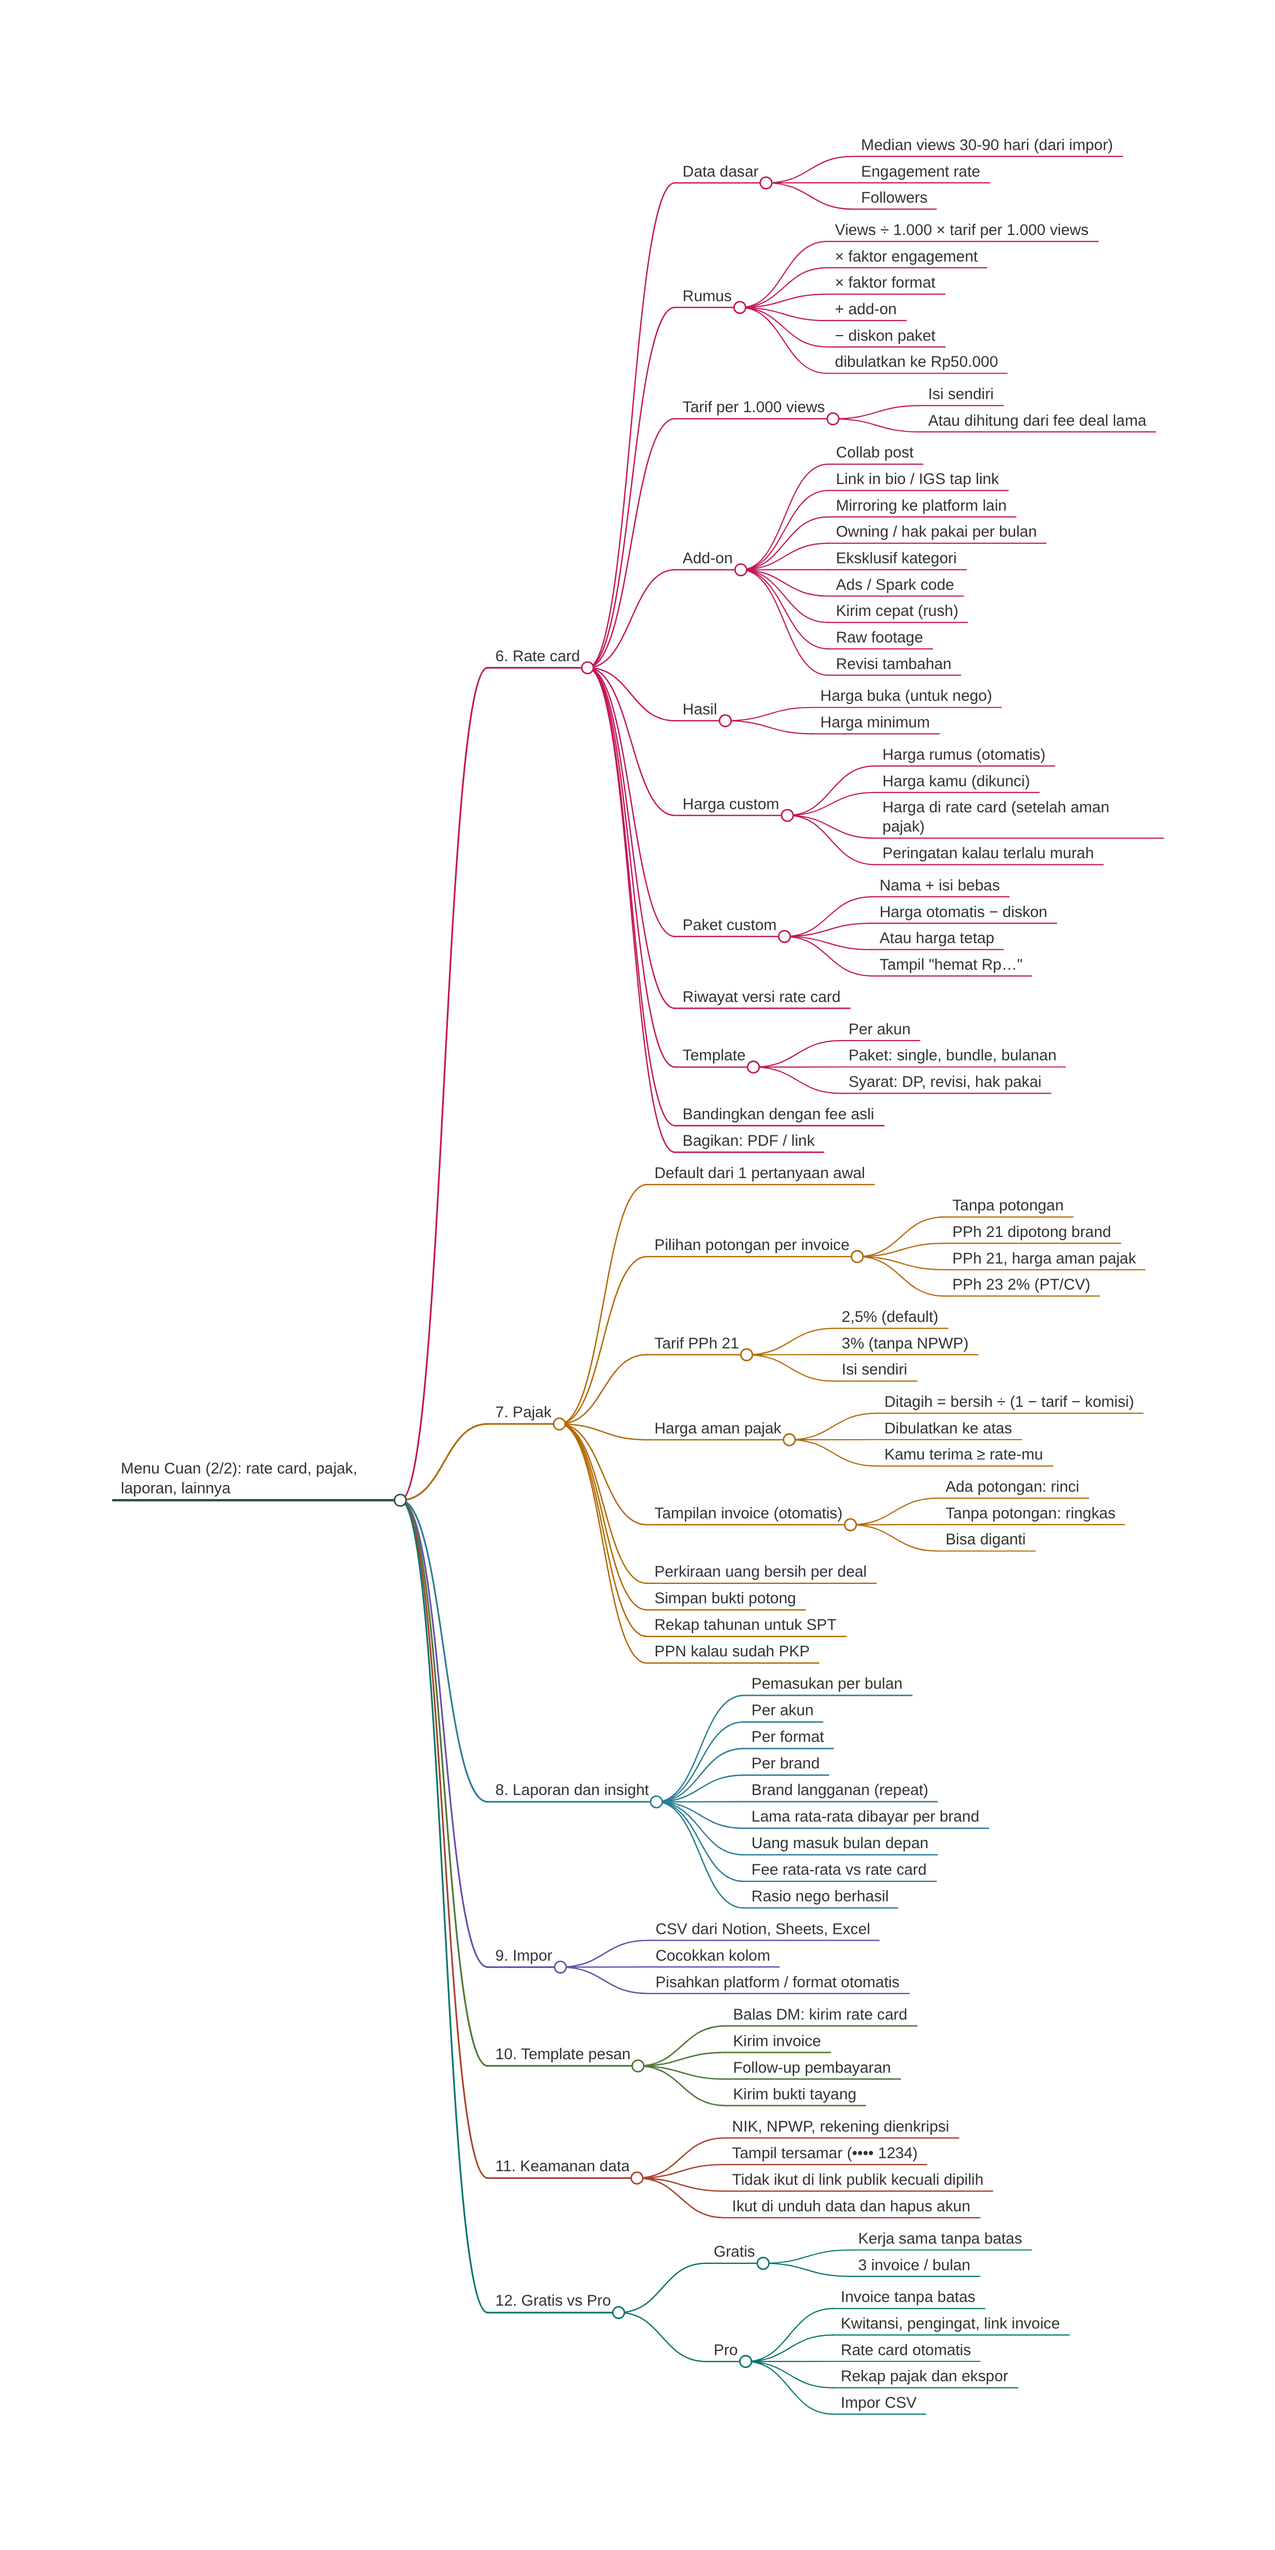
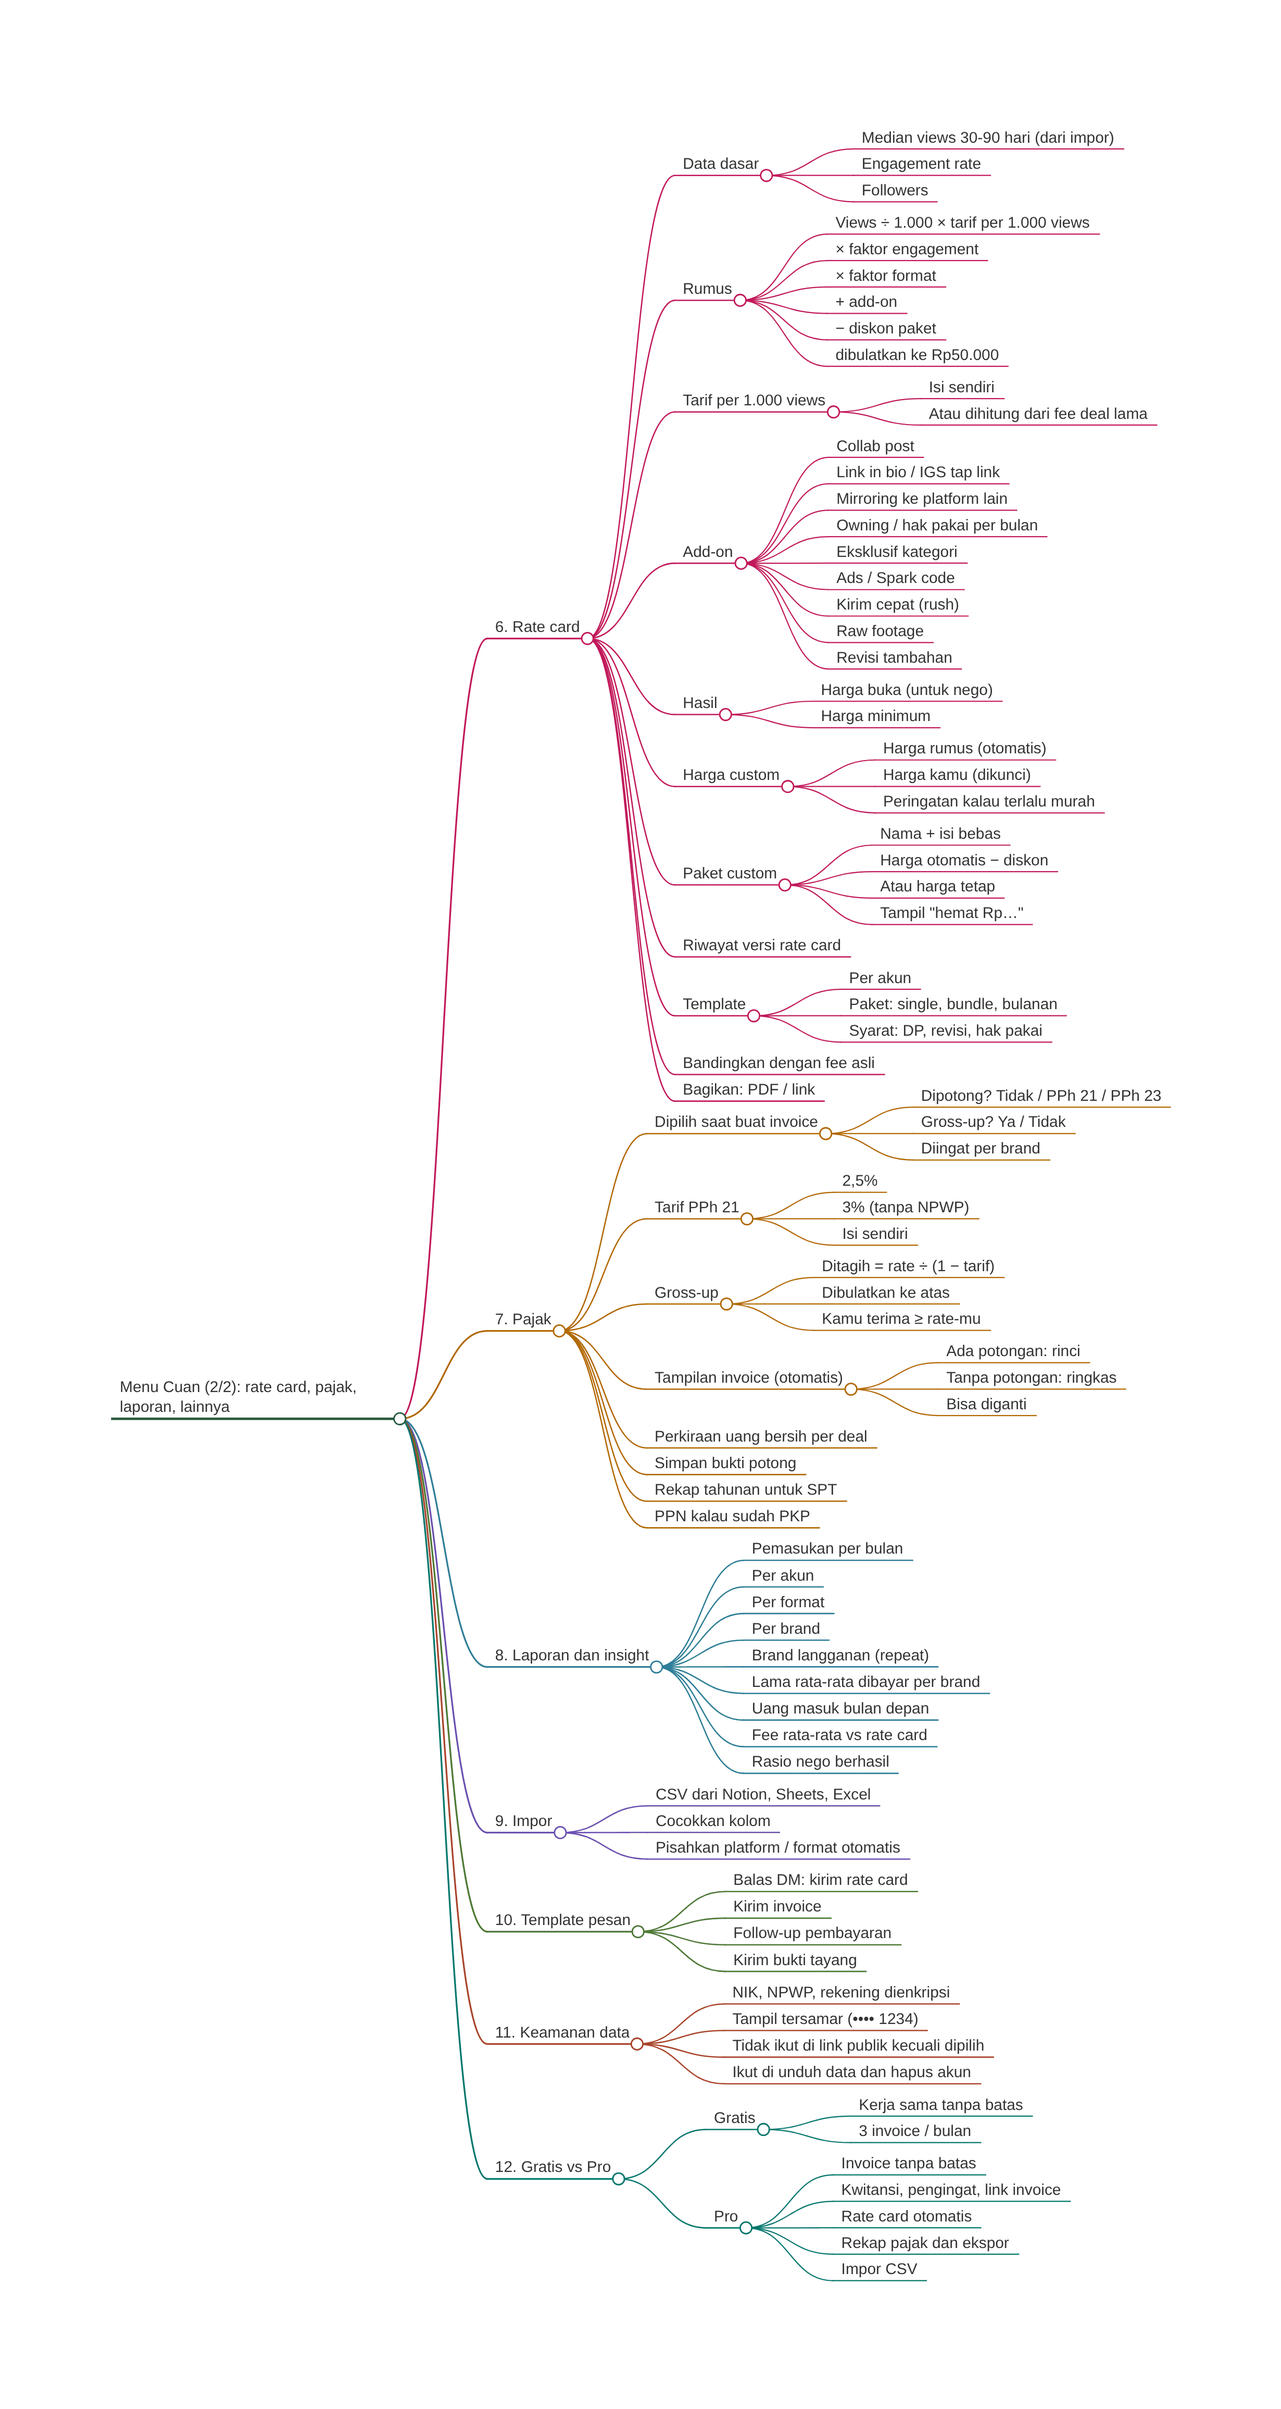
Hapus komisi manager; pajak dan gross-up dipilih per invoice
- Tidak ada lagi perantara/komisi; Bill to = siapa pun pemberi kerjaan
- Tidak ada pengaturan pajak di awal; dipotong atau tidak dan gross-up
  dipilih setiap membuat invoice, pilihan terakhir per brand diingat
- Rate card hanya harga rumus dan harga kamu, tanpa pajak

Claude-Session: https://claude.ai/code/session_01BoM2Up1Jm4HZYeCHUi7T6U

diff --git a/wireframes/index.html b/wireframes/index.html
@@ -460,23 +460,20 @@ u{text-underline-offset:2px}
   <div class="top"><span>‹ Cuan</span><span class="up">Bagikan</span></div>
   <h1>Rate card</h1>
   <div class="chips"><span class="chip on">@sarita</span><span class="chip">@sarita.review</span></div>
-  <div class="li"><div>Naikkan supaya aman pajak<div class="muted">PPh 21 · 2,5% · bulat ke atas</div></div><span class="tg on"></span></div>
   <div class="card">
    <div class="flex"><b>Reels</b><span class="muted">rumus Rp1.050.000</span></div>
    <div class="flex" style="margin-top:6px;font-size:13.5px"><span>Harga kamu 🔒</span><b>Rp1.200.000</b></div>
-   <div class="flex" style="font-size:13.5px"><span class="muted">Di rate card</span><span class="up">Rp1.231.000</span></div>
   </div>
   <div class="card">
    <div class="flex"><b>TikTok</b><span class="muted">rumus Rp980.000</span></div>
    <div class="flex" style="margin-top:6px;font-size:13.5px"><span>Harga kamu 🔒</span><b>Rp1.000.000</b></div>
-   <div class="flex" style="font-size:13.5px"><span class="muted">Di rate card</span><span class="up">Rp1.026.000</span></div>
   </div>
   <h2>Paket</h2>
-  <div class="li">Bundle Launch<span class="r">Rp2.862.000 ›</span></div>
+  <div class="li">Bundle Launch<span class="r">Rp2.790.000 ›</span></div>
   <div class="li" style="color:var(--acc);font-weight:700">+ Paket baru</div>
  </div>
 </div>
-<ul class="notes"><li>Harga rumus jadi titik awal; harga kamu yang dipakai.</li><li>Brand melihat harga yang sudah aman pajak.</li></ul>
+<ul class="notes"><li>Harga rumus jadi titik awal; harga kamu yang dipakai.</li><li>Pajak tidak diatur di sini, tapi di tiap invoice.</li></ul>
 </div>
 
 <div class="col">
@@ -495,7 +492,6 @@ u{text-underline-offset:2px}
   <div class="seg"><span class="on">Otomatis</span><span>Harga tetap</span></div>
   <div class="card">
    <div class="flex" style="font-size:13.5px"><span>Rp3.100.000 − 10%</span><b>Rp2.790.000</b></div>
-   <div class="flex" style="font-size:13.5px;margin-top:4px"><span class="muted">Di rate card</span><span class="up">Rp2.862.000</span></div>
    <div class="muted" style="margin-top:4px">Hemat Rp310.000 dibanding satuan</div>
   </div>
  </div>
@@ -504,30 +500,28 @@ u{text-underline-offset:2px}
 </div>
 
 <div class="col">
-<p class="label"><span>18</span>Invoice · potongan pajak</p>
+<p class="label"><span>18</span>Invoice · pajak</p>
 <div class="phone">
  <div class="sb"><span>9.41</span><span>▮▮▮</span></div>
  <div class="scr">
   <div class="top"><span>‹ INV/2026/11/004</span><span></span></div>
-  <h1>Potongan pajak</h1>
-  <div class="li"><span class="cb"></span>Tanpa potongan</div>
-  <div class="li"><span class="cb"></span>PPh 21 dipotong brand</div>
-  <div class="li"><span class="cb done"></span><b>PPh 21, harga aman pajak</b></div>
-  <div class="li"><span class="cb"></span>PPh 23 2% (PT/CV)</div>
-  <div class="field"><small>Rate bersih yang kamu mau</small>Rp1.500.000</div>
-  <div class="chips"><span class="chip on">Tarif 2,5% ▾</span><span class="chip on">Komisi manager 10%</span></div>
+  <h1>Pajak</h1>
+  <h2>Brand memotong pajak?</h2>
+  <div class="li"><span class="cb"></span>Tidak</div>
+  <div class="li"><span class="cb done"></span><b>PPh 21 · 2,5%</b></div>
+  <div class="li"><span class="cb"></span>PPh 21 · 3% (tanpa NPWP)</div>
+  <div class="li"><span class="cb"></span>PPh 23 · 2% (PT/CV)</div>
+  <div class="li"><div><b>Gross-up</b><div class="muted">Tetap terima rate utuh</div></div><span class="tg on"></span></div>
+  <div class="field"><small>Mau terima</small>Rp1.500.000</div>
   <div class="card" style="font-size:13.5px">
-   <div class="flex"><span>Ditagih</span><b>Rp1.715.000</b></div>
-   <div class="flex muted"><span>PPh 21</span><span>−Rp42.875</span></div>
-   <div class="flex muted"><span>Komisi manager</span><span>−Rp171.500</span></div>
-   <div class="flex" style="margin-top:4px"><b>Kamu terima</b><b class="up">Rp1.500.625</b></div>
+   <div class="flex"><span>Ditagih</span><b>Rp1.539.000</b></div>
+   <div class="flex muted"><span>PPh 21 dipotong</span><span>−Rp38.475</span></div>
+   <div class="flex" style="margin-top:4px"><b>Kamu terima</b><b class="up">Rp1.500.525</b></div>
   </div>
   <div class="seg"><span>Ringkas</span><span class="on">Rinci</span></div>
  </div>
 </div>
-<ul class="notes"><li>Dibulatkan ke atas, jadi yang diterima tidak kurang dari rate-mu.</li><li>Komisi hanya untuk hitunganmu, tidak tercetak di invoice.</li><li>Angka pajak berupa perkiraan.</li></ul>
-</div>
-
+<ul class="notes"><li>Dipilih tiap buat invoice; pilihan terakhir untuk brand yang sama sudah terisi.</li><li>Dibulatkan ke atas, jadi yang diterima tidak kurang dari rate-mu.</li><li>Angka pajak berupa perkiraan.</li></ul>
 </div>
 </section>
 

diff --git a/docs/cuan.md b/docs/cuan.md
@@ -27,17 +27,9 @@ Sheets, atau Excel, ditambah beberapa kolom yang biasanya belum ada.
 | Fee | Bruto, sebelum potongan |
 | Status bayar | Belum → Ditagih → DP → Lunas, ditambah Telat (otomatis kalau lewat jatuh tempo) |
 | Tanggal dibayar | Diisi saat ditandai Lunas |
-| **Lewat manager / agensi** | Nama perantara dan komisinya (% atau nominal), sehingga fee bersih terlihat |
 | Termin | DP sekian %, pelunasan setelah posting |
 | Bukti tayang | Link postingan + angka dari data impor |
 | Brief & kontrak | File atau link |
-
-**Deal lewat manager atau agensi.** Ada dua pola, dan creator memilih salah
-satu per deal:
-- **Brand bayar ke kamu, kamu bayar komisi ke manager.** Invoice ke brand.
-  Komisi hanya muncul di hitunganmu, tidak tercetak di invoice.
-- **Brand bayar ke agensi, agensi bayar ke kamu.** Invoice ke agensi
-  (Bill to = agensi), sebesar fee setelah komisi.
 
 ## 2. Profil penagih (diisi sekali, dipakai di semua invoice)
 
@@ -60,63 +52,57 @@ dicek.
 | Bagian | Isi |
 |---|---|
 | Kepala | Logo, nama, kontak, NPWP; nomor invoice, tanggal, jatuh tempo (NET 7/14/30), no PO kalau brand minta |
-| Bill to | Nama PT/brand, alamat, PIC, email (dari data brand) |
+| Bill to | Siapa pun yang memberi kerjaan: nama perusahaan, alamat, PIC, email (tersimpan, jadi tidak diketik ulang) |
 | Tabel | Deskripsi (dari SOW), qty, harga satuan, jumlah |
 | Hitungan | Subtotal → diskon → PPN (kalau PKP) → total tagihan → dikurangi DP yang sudah dibayar → **sisa tagihan** |
-| Potongan pajak | Tanpa potongan / PPh 21 / PPh 21 harga aman pajak / PPh 23, dengan tampilan ringkas atau rinci (lihat di bawah). Aplikasi selalu menampilkan **perkiraan uang bersih diterima** |
+| Potongan pajak | Dipilih di invoice ini: dipotong atau tidak, dan gross-up atau tidak (lihat di bawah). Aplikasi selalu menampilkan **perkiraan uang bersih diterima** |
 | Terbilang | "Satu juta dua ratus ribu rupiah" (sering diminta tim finance) |
 | Pembayaran | Bank, nomor rekening, atas nama |
 | Penutup | Catatan/syarat, tanda tangan, nama terang, kota & tanggal |
 | Meterai | Pengingat kalau nilai lebih dari Rp5.000.000 |
 
-### Potongan pajak
+### Potongan pajak (dipilih setiap membuat invoice)
 
-**Default untuk pengguna baru.** Saat pertama membuka Cuan, aplikasi
-menanyakan satu hal: *"Biasanya brand memotong pajak dari fee-mu?"*
+Tidak ada pengaturan pajak di awal, karena tiap brand bisa beda. Setiap kali
+membuat invoice, ada dua pilihan:
 
-| Jawaban | Default yang dipasang |
-|---|---|
-| Ya | PPh 21 dipotong brand, 2,5%. Langsung muncul tawaran: "Mau tetap terima rate utuh? Nyalakan harga aman pajak" |
-| Tidak | Tanpa potongan |
-| Belum tahu | Tanpa potongan, plus penjelasan singkat dan perkiraan potongan kalau nanti brand memotong |
+1. **Brand memotong pajak?** Tidak · PPh 21 2,5% · PPh 21 3% (tanpa NPWP)
+   · PPh 23 2% (kalau menagih atas nama PT/CV) · isi sendiri.
+2. **Gross-up?** Muncul kalau ada potongan. Kalau dinyalakan, tagihan
+   dinaikkan supaya setelah dipotong kamu tetap terima rate-mu utuh.
 
-Default bisa diubah di pengaturan dan diganti per invoice.
+Invoice berikutnya ke brand yang sama sudah terisi dengan pilihan terakhir
+untuk brand itu, dan tetap bisa diganti. Brand baru mulai dari "Tidak".
 
-| Pilihan | Dipakai kalau | Hasilnya |
-|---|---|---|
-| Tanpa potongan | Brand tidak memotong pajak (brand perorangan, brand luar negeri) | Ditagih = fee |
-| PPh 21 dipotong brand | Kamu perorangan, brand berbadan usaha (paling umum) | Ditagih = fee; kamu terima fee − PPh |
-| **PPh 21, harga aman pajak** | Kamu mau tetap terima rate-mu utuh | Tagihan dinaikkan sedikit, supaya setelah dipotong kamu terima persis rate-mu |
-| PPh 23 (2%) | Kamu menagih atas nama PT/CV | Ditagih = fee; kamu terima fee − 2% |
+Tarif PPh 21 2,5% berasal dari 50% × tarif lapisan pertama 5%; tanpa NPWP
+20% lebih tinggi (3%). Tarif bisa lebih tinggi kalau total penghasilan dari
+brand yang sama dalam setahun besar. Semua angka pajak di aplikasi adalah
+perkiraan; cek ke konsultan pajak.
 
-**Tarif PPh 21:** 2,5% (default, dari 50% × tarif lapisan pertama 5%), 3%
-(tanpa NPWP, 20% lebih tinggi), atau isi sendiri. Tarif bisa lebih tinggi
-kalau total penghasilan dari brand yang sama dalam setahun besar. Semua
-angka pajak di aplikasi adalah perkiraan; cek ke konsultan pajak.
-
-**Rumus harga aman pajak:**
+**Rumus gross-up:**
 
 ```
-ditagih = rate bersih yang kamu mau ÷ (1 − tarif PPh − komisi perantara)
-          → dibulatkan ke ATAS (Rp1.000 / Rp10.000 / Rp50.000)
+ditagih = rate yang mau kamu terima ÷ (1 − tarif)
+          → dibulatkan ke ATAS (Rp1.000)
 ```
 
 Pembulatan selalu ke atas, supaya yang kamu terima tidak pernah kurang dari
 rate-mu.
 
-| Rate bersih yang kamu mau | Tarif | Komisi perantara | Ditagih (bulat ke atas Rp1.000) | Dipotong PPh | Komisi | Kamu terima |
-|---|---|---|---|---|---|---|
-| Rp1.000.000 | 2,5% | — | Rp1.026.000 | Rp25.650 | — | Rp1.000.350 |
-| Rp1.000.000 | 3% | — | Rp1.031.000 | Rp30.930 | — | Rp1.000.070 |
-| Rp1.500.000 | 2,5% | 10% (manager) | Rp1.715.000 | Rp42.875 | Rp171.500 | Rp1.500.625 |
+| Mau terima | Potongan | Ditagih | Dipotong | Kamu terima |
+|---|---|---|---|---|
+| Rp1.000.000 | PPh 21 2,5% | Rp1.026.000 | Rp25.650 | Rp1.000.350 |
+| Rp1.000.000 | PPh 21 3% | Rp1.031.000 | Rp30.930 | Rp1.000.070 |
+| Rp1.500.000 | PPh 21 2,5% | Rp1.539.000 | Rp38.475 | Rp1.500.525 |
+| Rp1.000.000 | PPh 23 2% | Rp1.021.000 | Rp20.420 | Rp1.000.580 |
+
+Tanpa gross-up: ditagih Rp1.000.000, dipotong 2,5%, kamu terima Rp975.000.
 
 **Tampilan di invoice** dipilih otomatis, dan bisa diganti:
-- **Rinci** kalau ada potongan pajak: Nilai jasa → PPh 21 dipotong (2,5%) →
-  Jumlah yang ditransfer. Tim finance brand butuh rincian ini untuk membuat
-  bukti potong.
+- **Rinci** kalau ada potongan pajak: Nilai jasa → PPh dipotong → Jumlah
+  yang ditransfer. Tim finance brand butuh rincian ini untuk membuat bukti
+  potong.
 - **Ringkas** kalau tanpa potongan: hanya total, tanpa baris pajak.
-
-Komisi manager tidak pernah tercetak di invoice ke brand.
 
 Kalau kamu PKP, PPN dihitung dari nilai jasa dan ditambahkan di atasnya;
 PPh dihitung dari nilai jasa sebelum PPN.
@@ -163,13 +149,15 @@ kelihatan kalau rate card terlalu tinggi atau terlalu rendah.
 
 ### Harga custom dan paket
 
-Rumus hanya titik awal. Setiap item di rate card punya tiga angka:
+Rumus hanya titik awal. Setiap item di rate card punya dua angka:
 
 | Angka | Isi |
 |---|---|
 | Harga rumus | Dihitung otomatis dari data |
-| **Harga kamu** | Diisi sendiri, lalu dikunci (tidak berubah walaupun datanya berubah) |
-| Harga di rate card | Harga yang dilihat brand. Kalau opsi **"naikkan supaya aman pajak"** menyala, ini adalah harga kamu setelah gross-up |
+| **Harga kamu** | Diisi sendiri, lalu dikunci (tidak berubah walaupun datanya berubah). Ini yang tampil di rate card |
+
+Rate card tidak mengurus pajak. Gross-up dipilih per invoice, karena ada
+brand yang memotong pajak dan ada yang tidak.
 
 - **Paket custom:** beri nama, pilih isinya (misalnya 1 Reels + mirroring
   TikTok + 3 IG Story), lalu pilih harga otomatis (jumlah isi − diskon) atau
@@ -197,7 +185,6 @@ Bisa dibagikan sebagai PDF atau link, dan nyambung ke media kit.
 | Ide | Kenapa penting |
 |---|---|
 | **Impor dari Notion, Sheets, Excel** (CSV) | Catatan deal yang sudah ada langsung pindah, tanpa ketik ulang. Kolom dicocokkan otomatis; kolom campuran platform/format dipecah jadi tiga |
-| **Manager / agensi + komisi** | Fee bruto vs yang benar-benar kamu terima kelihatan jelas |
 | **Termin / DP** | Banyak brand bayar DP dulu; sisa tagihan dihitung otomatis |
 | **Lama dibayar per brand** | Kelihatan brand yang selalu telat bayar, berguna untuk menentukan syarat DP berikutnya |
 | **Brand langganan** | Brand yang deal lebih dari sekali bisa ditawari paket bulanan |
@@ -231,8 +218,9 @@ Detail syarat ada di [akun-privasi.md](akun-privasi.md).
 
 ## 8. Keputusan terbuka
 
-Sudah diputuskan: default pajak lewat satu pertanyaan awal, dan tampilan
-invoice otomatis (rinci kalau ada potongan). Lihat bagian 3.
+Sudah diputuskan: pajak dan gross-up dipilih per invoice (pilihan terakhir
+per brand diingat), dan tampilan invoice otomatis (rinci kalau ada
+potongan). Lihat bagian 3.
 
 1. Default jatuh tempo: NET 7 atau NET 14?
 2. Nilai awal add-on dan faktor format: cek ke 10-20 creator lewat survei

diff --git a/docs/mindmap/menu-cuan.md b/docs/mindmap/menu-cuan.md
@@ -33,11 +33,6 @@ markmap:
   - Platform: IG, TikTok, YouTube
   - Format: Reels, Carousel, Story, Video
   - Add-on: Collab, Mirroring, Owning, Link
-- Lewat manager / agensi
-  - Nama perantara
-  - Komisi % atau nominal
-  - Fee bersih
-  - Invoice ke brand atau ke agensi
 - Termin
   - DP
   - Pelunasan
@@ -151,7 +146,6 @@ markmap:
 - Harga custom
   - Harga rumus (otomatis)
   - Harga kamu (dikunci)
-  - Harga di rate card (setelah aman pajak)
   - Peringatan kalau terlalu murah
 - Paket custom
   - Nama + isi bebas
@@ -168,18 +162,16 @@ markmap:
 
 ## 7. Pajak
 
-- Default dari 1 pertanyaan awal
-- Pilihan potongan per invoice
-  - Tanpa potongan
-  - PPh 21 dipotong brand
-  - PPh 21, harga aman pajak
-  - PPh 23 2% (PT/CV)
+- Dipilih saat buat invoice
+  - Dipotong? Tidak / PPh 21 / PPh 23
+  - Gross-up? Ya / Tidak
+  - Diingat per brand
 - Tarif PPh 21
-  - 2,5% (default)
+  - 2,5%
   - 3% (tanpa NPWP)
   - Isi sendiri
-- Harga aman pajak
-  - Ditagih = bersih ÷ (1 − tarif − komisi)
+- Gross-up
+  - Ditagih = rate ÷ (1 − tarif)
   - Dibulatkan ke atas
   - Kamu terima ≥ rate-mu
 - Tampilan invoice (otomatis)

diff --git a/wireframes/README.md b/wireframes/README.md
@@ -18,7 +18,7 @@ Keputusan yang dipakai:
 | ![C](grup-c.png) | 7 Pratinjau impor · 8 Cuan · 9 Lainnya / Akun |
 | ![D](grup-d.png) | 10 Daftar · 11 Profil & keamanan · 12 Langganan |
 | ![E](grup-e.png) | 13 Privasi & data · 14 Hapus akun · 15 Akun terhapus |
-| ![F](grup-f.png) | 16 Rate card · 17 Paket custom · 18 Invoice, potongan pajak |
+| ![F](grup-f.png) | 16 Rate card · 17 Paket custom · 18 Invoice, pajak |
 
 Syarat privasi dan toko aplikasi yang dipenuhi tiap layar ada di
 [docs/akun-privasi.md](../docs/akun-privasi.md).
